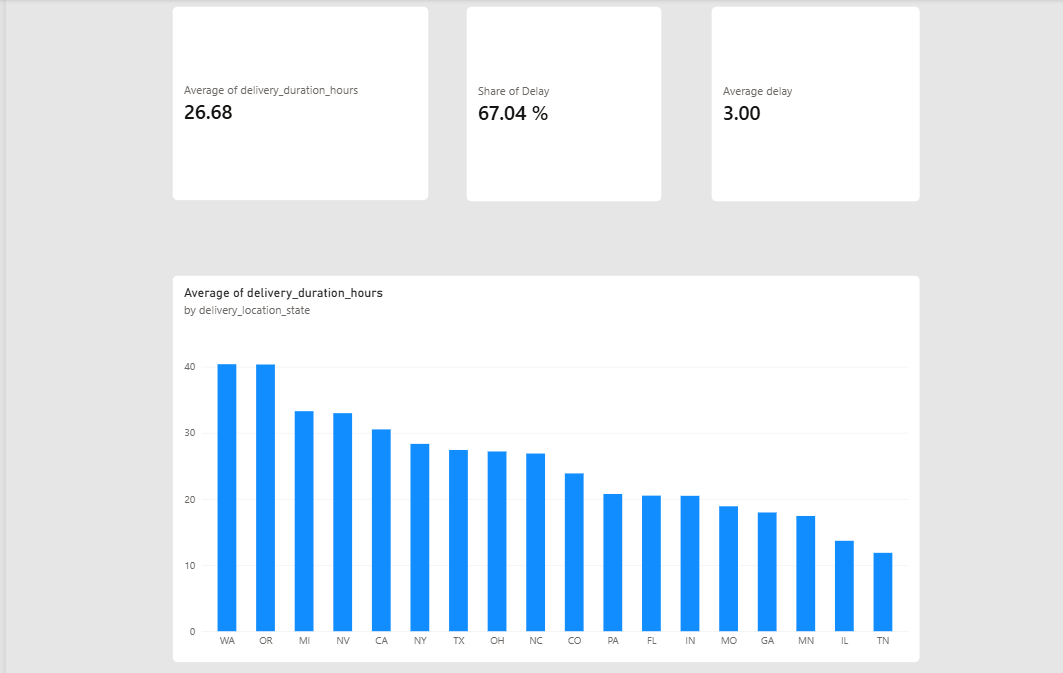
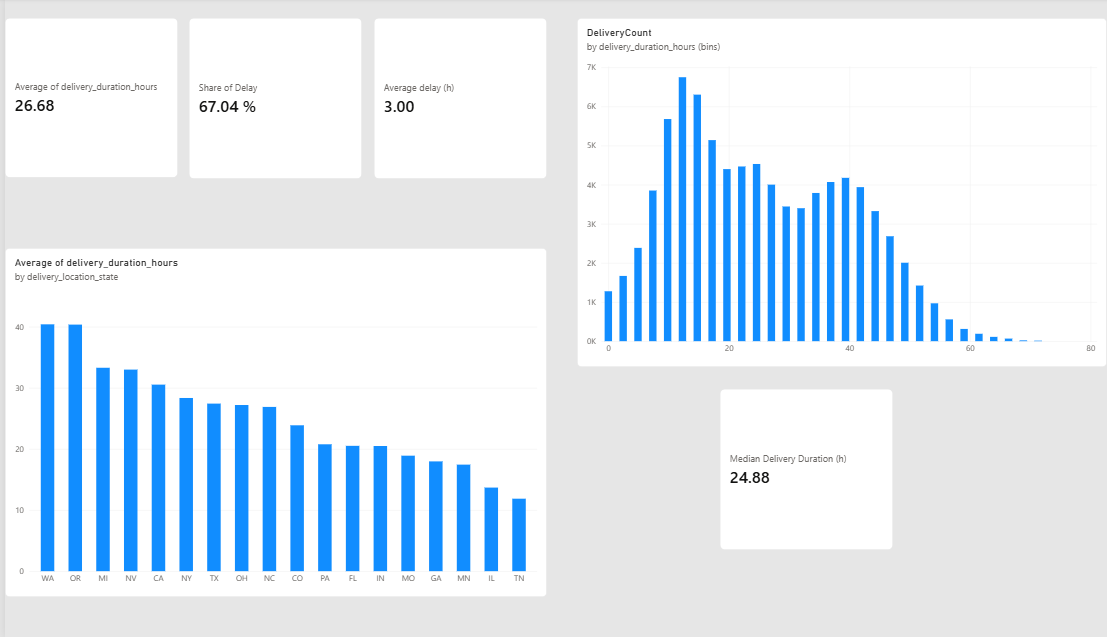
feat: add regional screenshots
- Add state-level and city-level drill-down screenshots
- Embed both screenshots in dashboard README under "Regional drill-down"

diff --git a/dashboard/01_delivery_performance/README.md b/dashboard/01_delivery_performance/README.md
@@ -22,16 +22,18 @@ transformations beyond what the pipeline already does.
 *Overview: average delivery duration, delay rate, and regional breakdown.*
 
 <details>
-<summary>Regional drill-down (coming soon)</summary>
+<summary>Regional drill-down</summary>
 
-*Screenshot not yet added.*
+![Regional drill-down - state level](screenshots/regional_drilldown_state.png)
+
+![Regional drill-down - city level](screenshots/regional_drilldown_city.png)
 
 </details>
 
 ## Opening the Dashboard
 
 Requires [Power BI Desktop](https://powerbi.microsoft.com/desktop/) (free).
-Open [`delivery_performance.pbix`](delivery_performance.pbix) directly --
+Open [`delivery_performance.pbix`](delivery_performance.pbix) directly -
 it reads from the CSV above, so run the ETL pipeline first if the file
 doesn't exist yet (see main [README](../../README.md#getting-started)).
 
